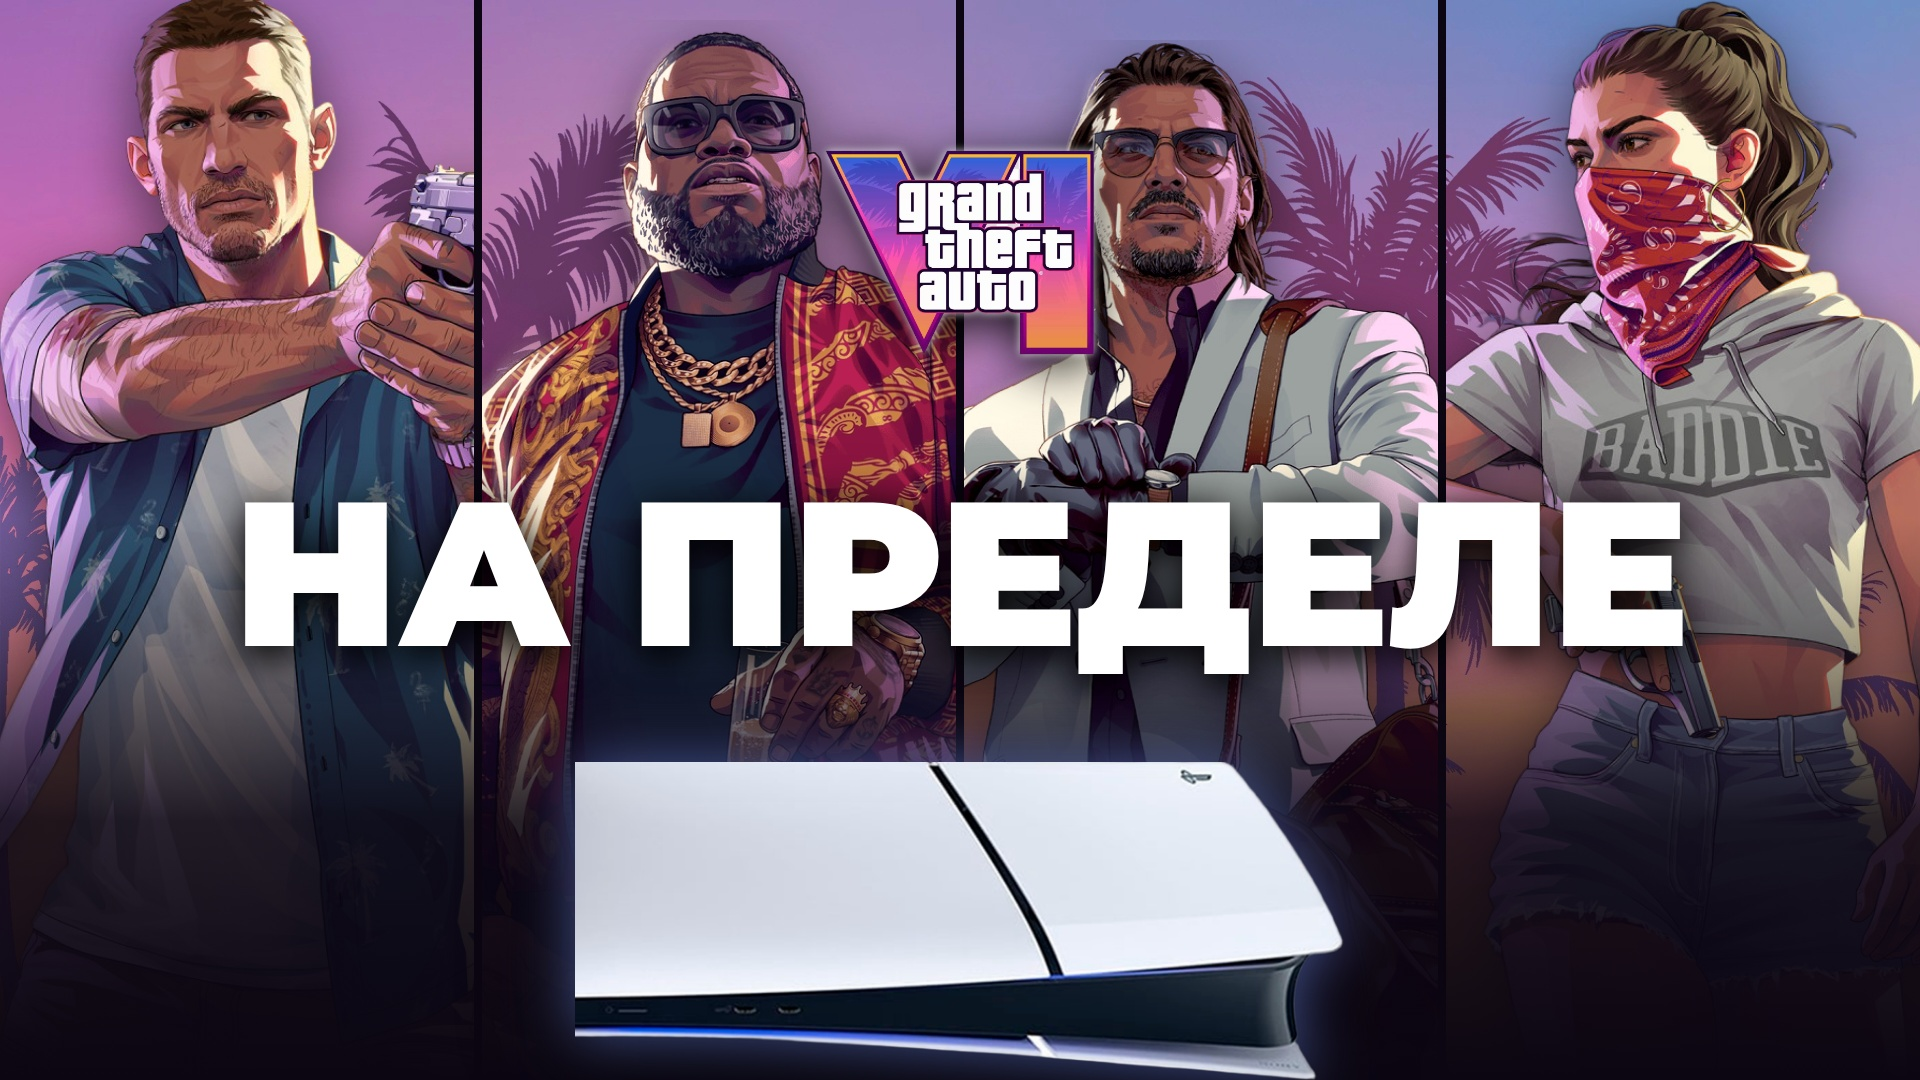
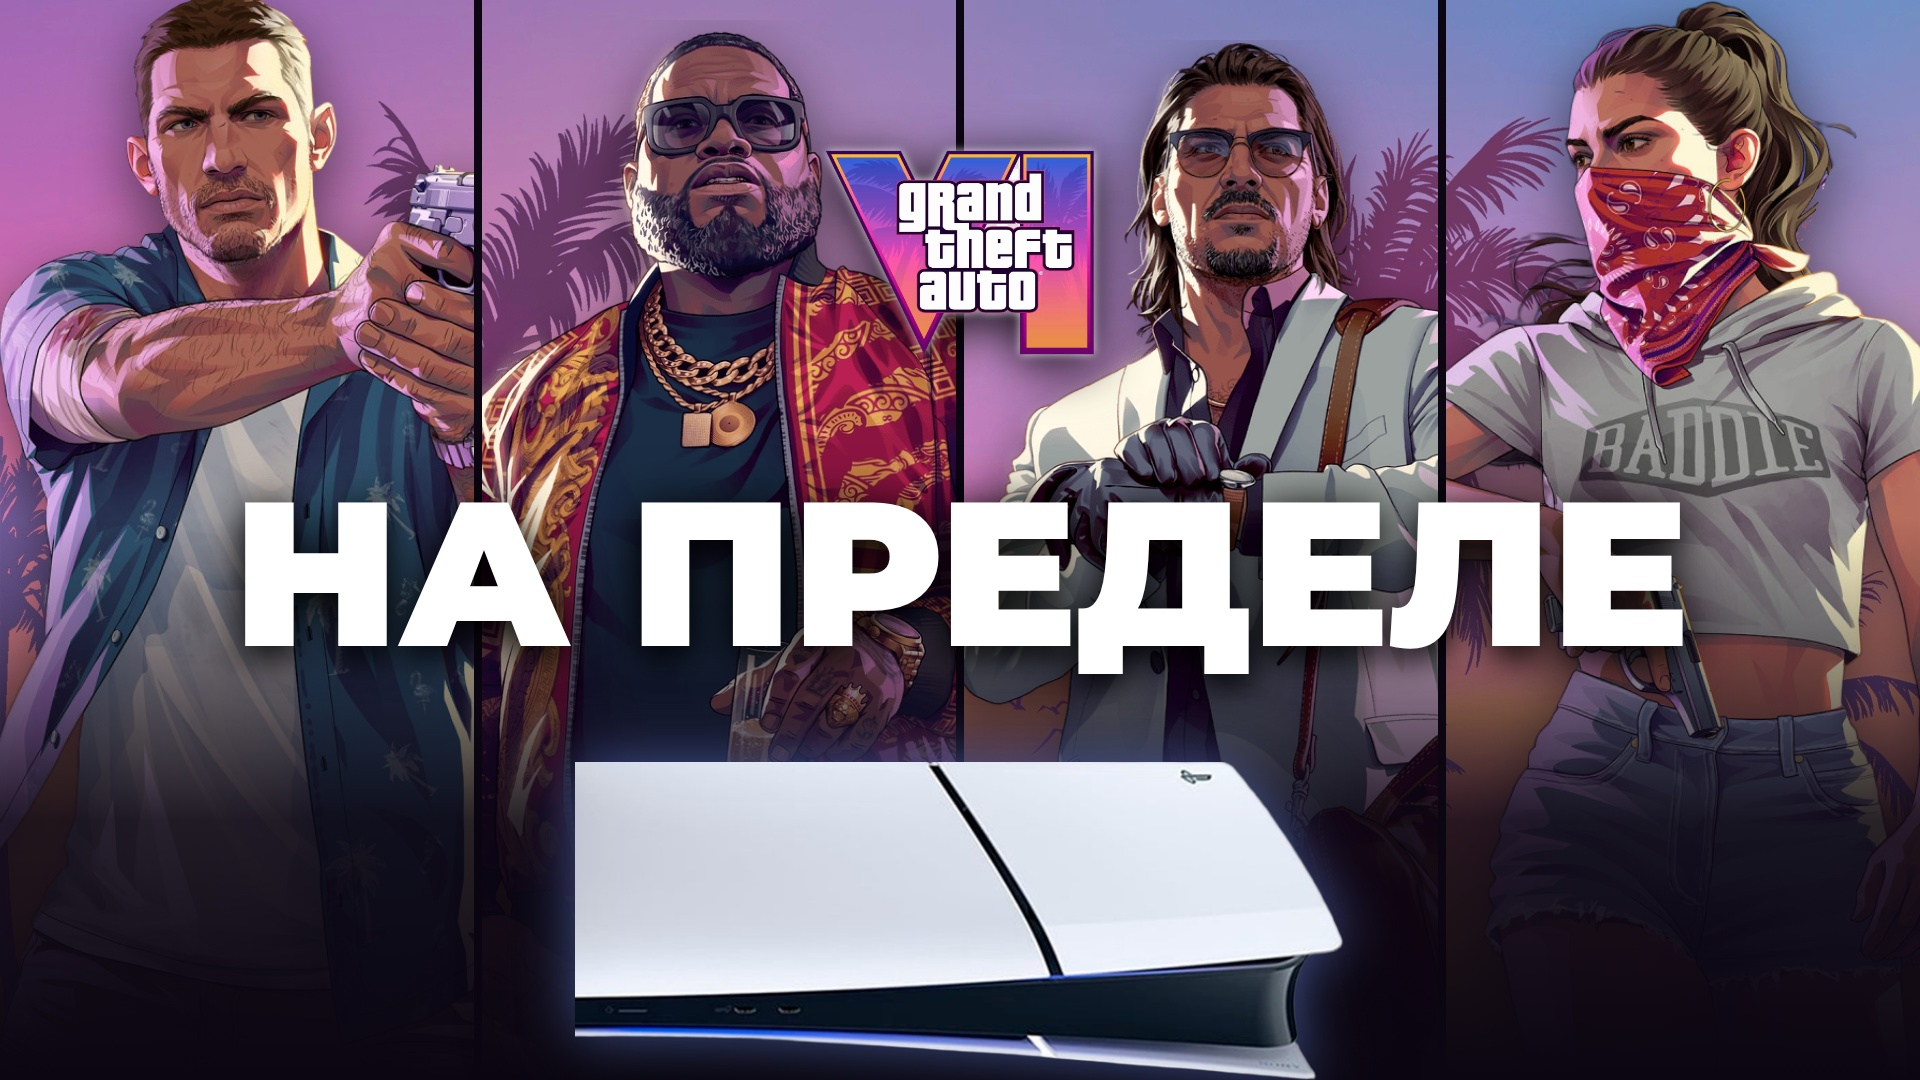
GTA 6 thumbnail: Raul further right
Claude-Session: https://claude.ai/code/session_01RHFrx85Hg5RpkQEmnVQQfw

Changed region(s): [[0.5, 0.0306, 0.75, 0.7333]]

diff --git a/gta6/thumb/thumb4.html b/gta6/thumb/thumb4.html
@@ -14,7 +14,7 @@ html,body{width:1920px;height:1080px;overflow:hidden;background:#0b0612;font-fam
 </style></head><body>
 <div class="p" style="left:0px"><div class="bg" style="background-position:-0px 0"></div><img src="/gta6/cut/jason.png" style="top:-10px;width:700px;margin-left:15px"></div>
 <div class="p" style="left:482px"><div class="bg" style="background-position:-482px 0"></div><img src="/gta6/cut/boobie.png" style="top:20px;width:760px;margin-left:30px"></div>
-<div class="p" style="left:964px"><div class="bg" style="background-position:-964px 0"></div><img src="/gta6/cut/raul.png" style="top:40px;width:740px;margin-left:35px"></div>
+<div class="p" style="left:964px"><div class="bg" style="background-position:-964px 0"></div><img src="/gta6/cut/raul.png" style="top:40px;width:740px;margin-left:110px"></div>
 <div class="p" style="left:1446px"><div class="bg" style="background-position:-1446px 0"></div><img src="/gta6/cut/lucia.png" style="top:0px;width:720px;margin-left:-40px"></div>
 <div class="shade"></div>
 <img class="logo" id="logo" src="/gta6/cut/gta6_logo.png">
